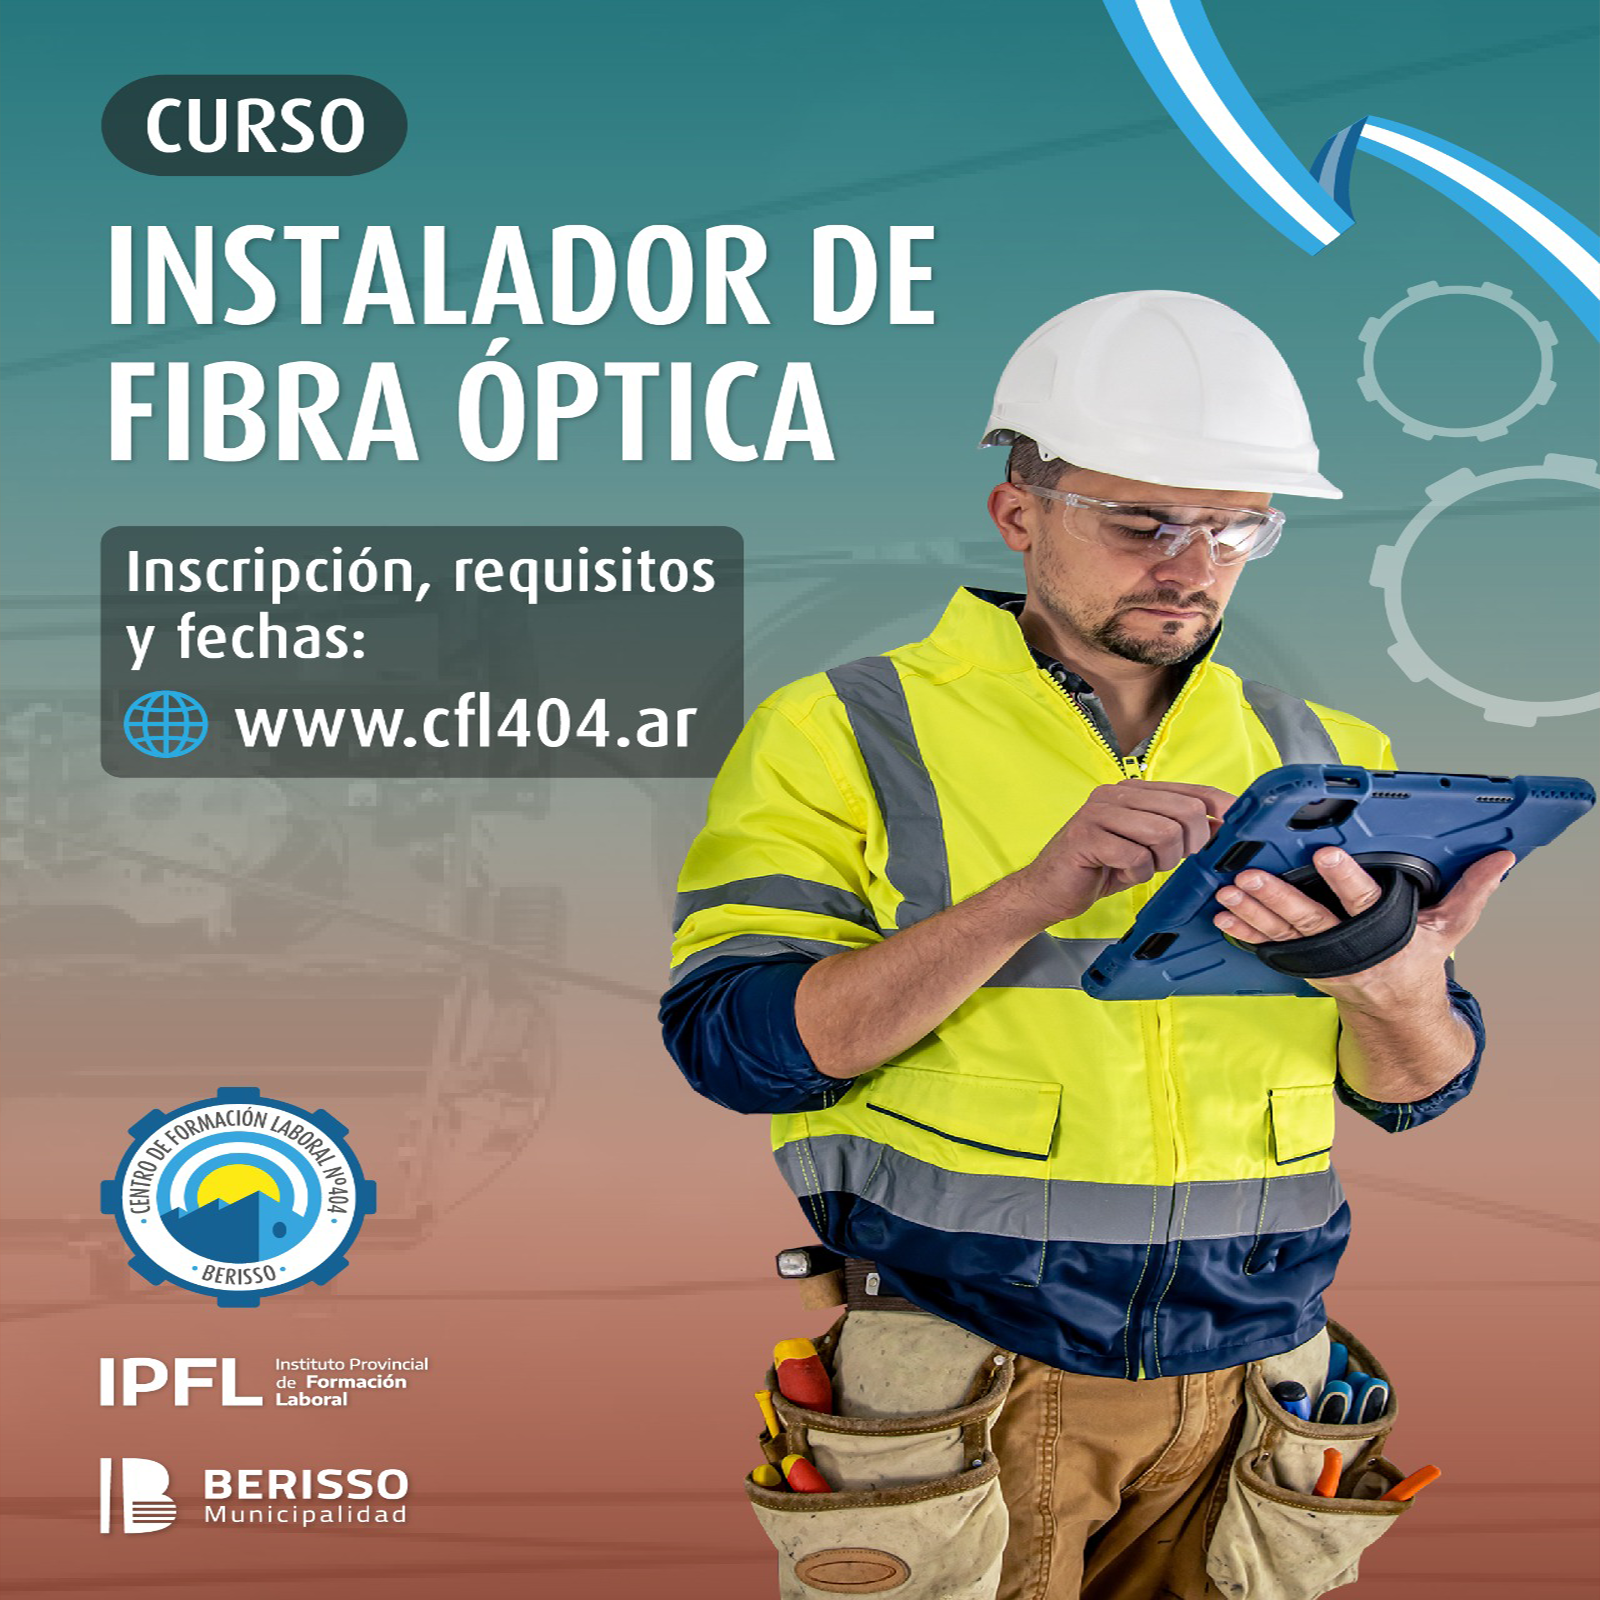
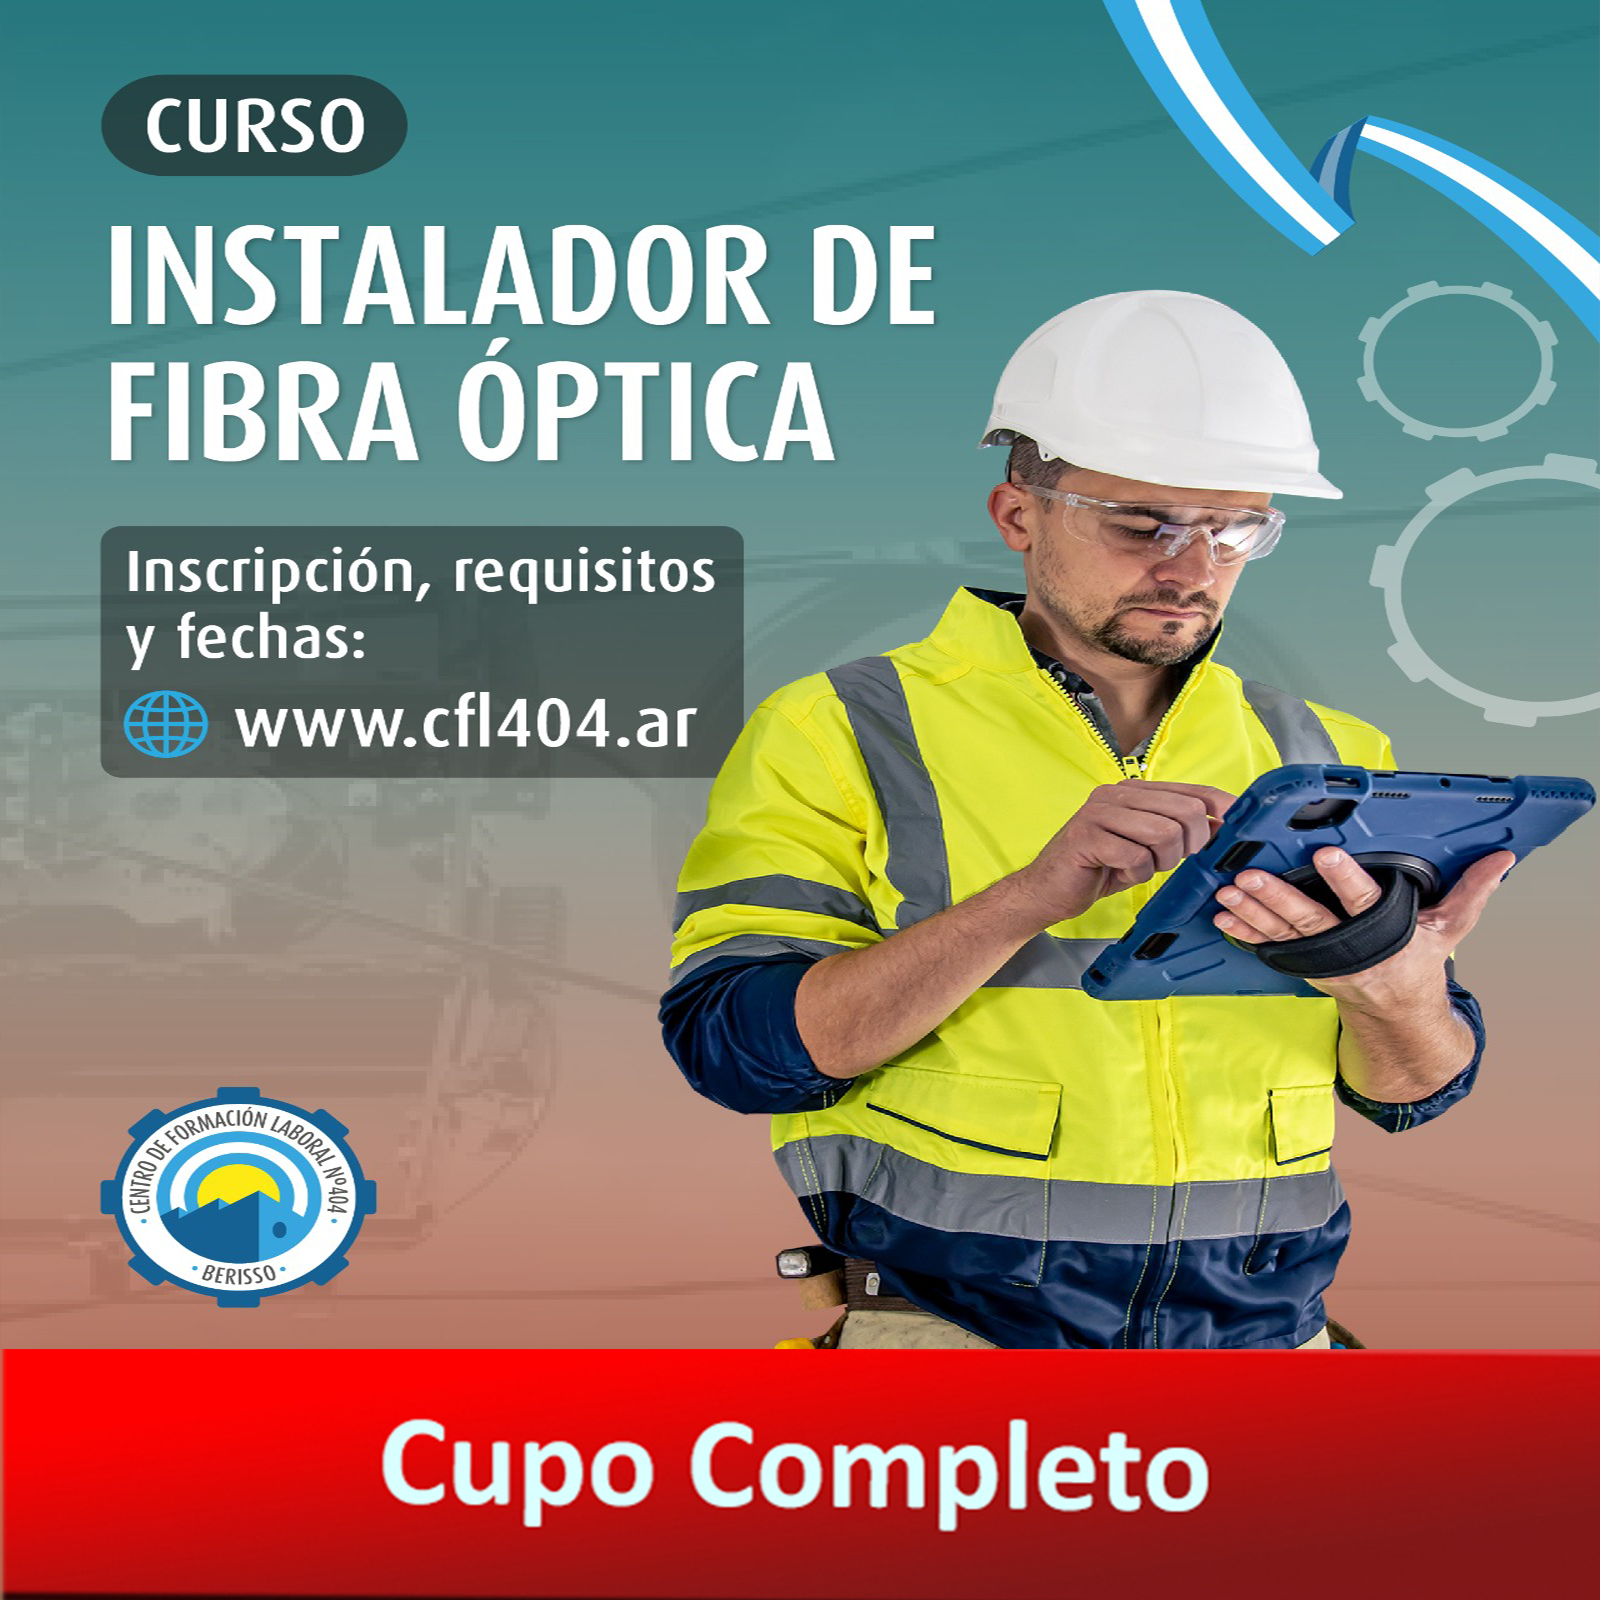
cupo completo

Changed region(s): [[0.0, 0.8438, 1.0, 1.0]]

diff --git a/index.html b/index.html
@@ -166,20 +166,6 @@
                 </a>
             </div>
 
-
-            <div class="cursos">
-                <a href="fibraOptica.html" target="">
-                    <div class="zoom">
-                        <img src="img/2025/fibra.png" alt="" class="imagen_curso">
-                    </div>
-                    <div class="titulo_cursos">
-                        <h2 class="estilo_h2 h">Empalmador Fusionador de Fibra Óptica</h2>
-                        <h3 class="estilo_h3">Duración: 6 meses</h3>
-                        <h2 class="boton_info"><a href="fibraOptica.html" target="">+INFO / INSCRIPCIÓN</a></h2>
-                    </div>
-                </a>
-            </div>
-
             <div class="cursos">
                 <a href="programador-iot.html" target="">
                     <div class="zoom">
@@ -232,6 +218,20 @@
                 </a>
             </div>
 
+            
+            <div class="cursos">
+                <a href="fibraOptica.html" target="">
+                    <div class="zoom">
+                        <img src="img/2025/fibra.png" alt="" class="imagen_curso">
+                    </div>
+                    <div class="titulo_cursos">
+                        <h2 class="estilo_h2 h">Empalmador Fusionador de Fibra Óptica</h2>
+                        <h3 class="estilo_h3">Duración: 6 meses</h3>
+                        <h2 class="boton_info"><a href="fibraOptica.html" target="">+INFO / INSCRIPCIÓN</a></h2>
+                    </div>
+                </a>
+            </div>
+            
             <div class="cursos">
                 <a href="armadorPlacasYeso.html" target="">
                     <div class="zoom">

diff --git a/fibraOptica.html b/fibraOptica.html
@@ -83,9 +83,9 @@
             <li>- Todos los cursos son <strong>TOTALMENTE GRATUITOS</strong></li>
         </ul><br>
         
-        <a href="INSCRIPCION_URL"
+        <a href="#"
         ><button class="mas_info">
-        Anotarme
+        Cupo Completo
         </button></a
       ><br />
     </div>
